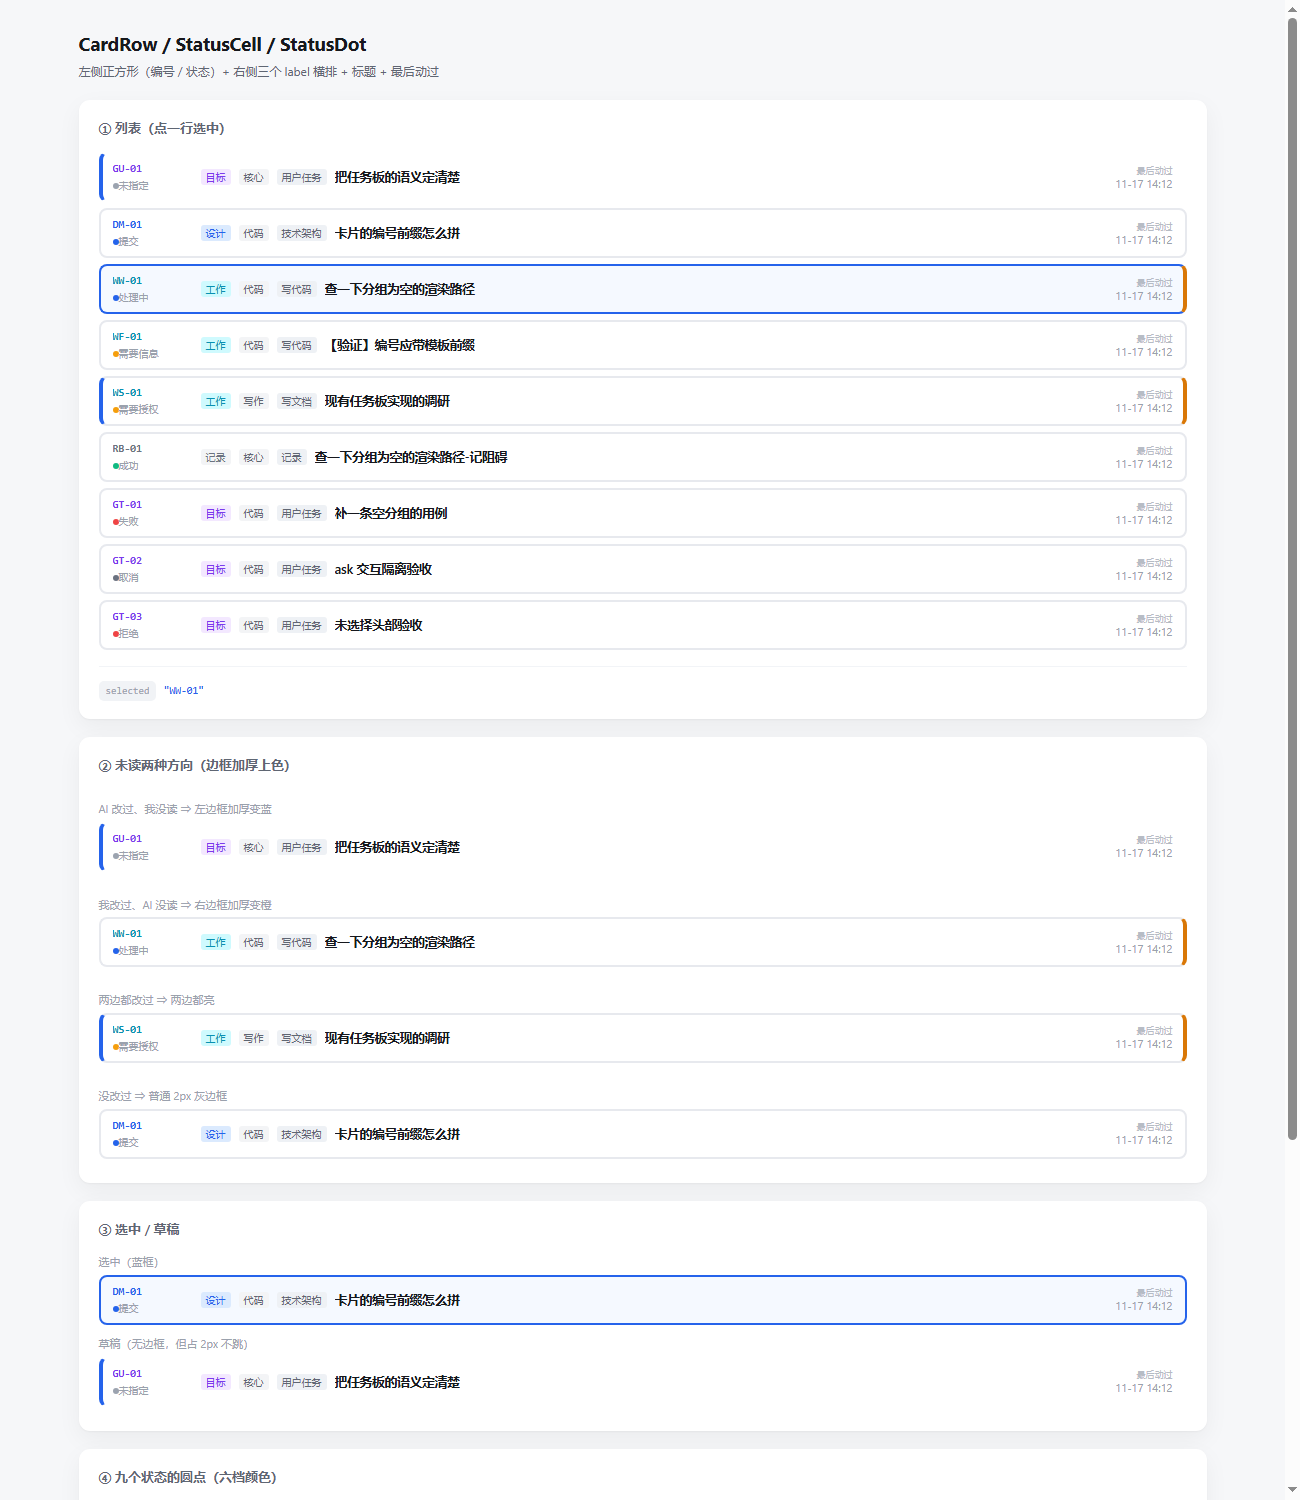
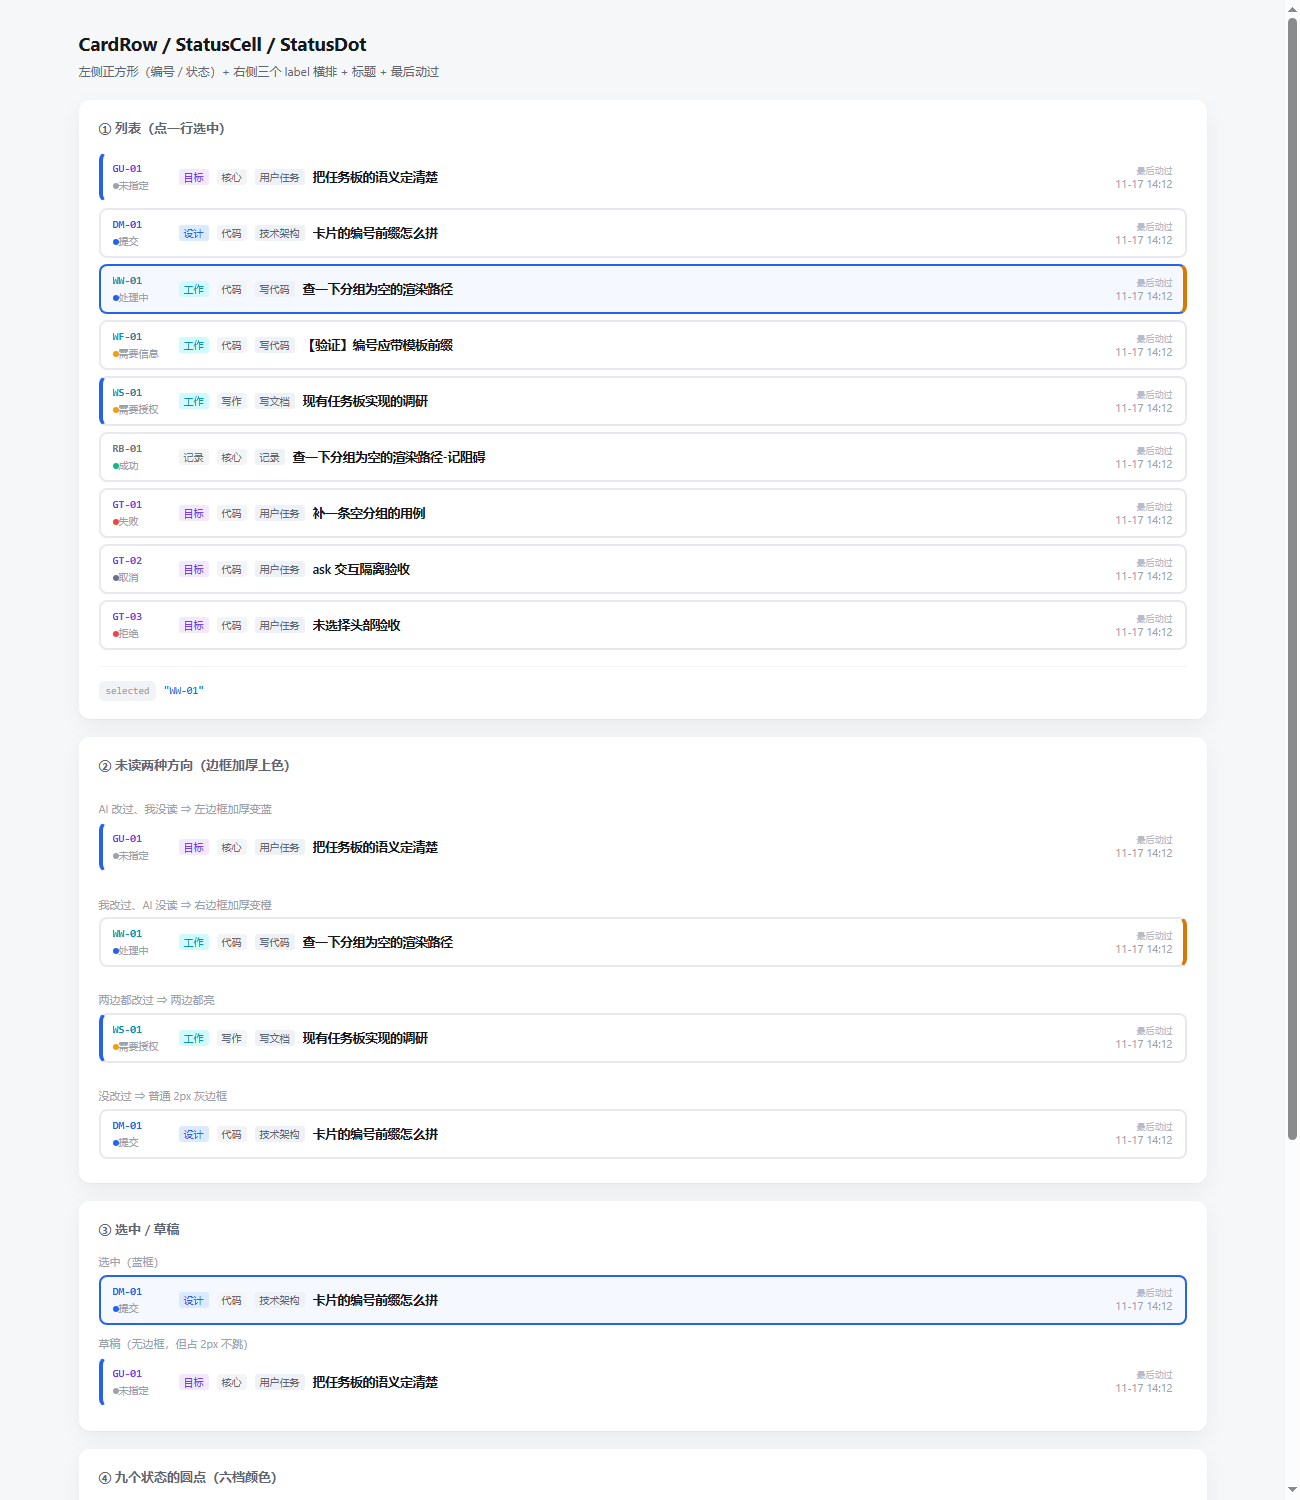
fix(CardRow): 收窄间距 12→8、正方形 76→58、未读只亮一边
用户 2026-11-17 三条反馈：

1. 「隔开那么宽干什么？至少隔了40px」
   实测：正方形 76px + gap 12px + 卡片 padding 12px。
   编号文字到第一个 label 之间是 **12px**（不是 40），但视觉上确实松。
   ⇒ 正方形收到 58px（最长状态「● 需要信息」约 50px），gap 收到 8px。

2. 「两边都改过是不可能的。这个东西是，一边改了而且另一边没读。
    他要改肯定会读啊。不点开读怎么改？」
   **用户是对的。** 改之前必须点开，点开就 markSeen 了。
   ⇒ 新增 pure/card-view.ts 的 unreadSide()：两边都真时**只亮左边**。
     组件里不再各判一次 card.unread.ai / .user。

   ⚠ 但数据层允许它是坏的：core 的 unreadAfter 只置位不清位，
     clearedUnread 由 markSeen 触发。客户端漏调 markSeen 就写会造成两边都真
     （core/test/updates.test.ts:130 就构造出了这个状态）。
     ⇒ unreadSide() 是唯一判决点，5 条单测钉住。

3. build.mjs 参数化（多成员并发需要）
   原来写死 preview/main.tsx，两个成员同时加组件会抢同一个文件。
   现在：node build.mjs <子目录名> 构建那个子目录的 main.tsx + style.css。
   ⇒ 每个组件一个子目录，互不干扰。

## 验证

- dev 单测 60 条全绿（新增 5 条 unreadSide）
- CDP 断言全过，新增：
  · 正方形 58px
  · 正方形到 label 间距 ≤ 10px（实测 8）
  · WS-01 数据两边都真，但 UI 只亮左边（左 4px、右 2px）
- 全仓 474 测试全绿

diff --git a/packages/dsh-client/dev/preview/index.html b/packages/dsh-client/dev/preview/index.html
@@ -3,7 +3,7 @@
 <head>
 <meta charset="utf-8">
 <meta name="viewport" content="width=device-width,initial-scale=1">
-<title>任务板 3 · 组件预览 · FilterBox</title>
+<title>任务板 3 · 组件预览</title>
 <style>/*
  * 组件预览页的样式。
  *
@@ -195,6 +195,10 @@ html,body{margin:0;height:100%;font-family:-apple-system,'Segoe UI','Microsoft Y
  *   额外线条会和选中框、hover 框打架。
  * ⚠ 加粗后总宽变 1px，用 `padding` 补偿回去，否则整块会抖。
  */
+/*
+ * ⚠ 两个类**不会同时存在** —— `unreadSide()` 已把「两边都真」收敛成只亮左边。
+ *   见 pure/card-view.ts 的 unreadSide 注释。
+ */
 .task-card.is-unread-ai{
   border-left-width:4px;border-left-color:var(--accent);
   padding-left:10px;   /* 12 - 2 补偿 */
@@ -204,9 +208,13 @@ html,body{margin:0;height:100%;font-family:-apple-system,'Segoe UI','Microsoft Y
   padding-right:10px;
 }
 
+/* 正方形和右侧内容的间距：12px（用户 2026-11-17 说太宽，从 12 收到 8） */
+.task-card{gap:8px}
+.task-card__status.is-compact{align-items:center}
+
 /* ── 左侧正方形：编号在上、状态在下 ── */
 .task-card__square{
-  flex:0 0 76px;display:flex;flex-direction:column;justify-content:center;gap:3px;
+  flex:0 0 58px;display:flex;flex-direction:column;justify-content:center;gap:3px;
   min-width:0;
 }
 .task-card__square-id{
@@ -242,6 +250,9 @@ html,body{margin:0;height:100%;font-family:-apple-system,'Segoe UI','Microsoft Y
 
 /* 未读的文字信号：编号加粗到 800（旧版行为，保留） */
 .task-card.is-unread-ai .card-id{font-weight:800}
+
+
+
 
 
 </style>
@@ -17282,9 +17293,43 @@ html,body{margin:0;height:100%;font-family:-apple-system,'Segoe UI','Microsoft Y
 		return String(n).padStart(2, "0");
 	}
 	/**
+	* 未读该亮哪一边。
+	*
+	* ## 用户 `2026-11-17`：两边同时为真在现实中不可能
+	*
+	* > 「然后你这个两边都改过是不可能的。这个东西是，一边改了而且另一边没读。
+	* >  他要改肯定会读啊。不点开读怎么改？」
+	*
+	* 对 —— 改之前必须点开，点开就 `markSeen` 了，所以「AI 改过我没读」和
+	* 「我改过 AI 没读」**不会同时成立**。
+	*
+	* ## 但数据层允许它是坏的
+	*
+	* core 的 `unreadAfter` 只置位不清位，`clearedUnread` 由 `markSeen` 触发。
+	* 如果**客户端没调 `markSeen` 就写**（程序化写、SSE 竞态、别处直接改库），
+	* 两个 can 同时为 `true`（`core/test/updates.test.ts:130` 就构造出了这个状态）。
+	*
+	* ⇒ **这里是唯一的判决点**：两个都为真时，只亮**左边（AI 改过）**。
+	*
+	* 为什么偏向左边：用户正在看这个界面，「我有一条没读的更新」是他能行动的信息；
+	* 「我改了 AI 还没读」是 AI 的事，不该占用视觉主位。
+	* 而且两个都亮会让人以为「选中了」。
+	*
+	* @param unread 卡的未读字段
+	* @returns `'left'` = AI 改过（左）、`'right'` = 我改过（右）、`'none'` = 两边都不亮
+	*/
+	function unreadSide(unread) {
+		if (unread.ai) return "left";
+		if (unread.user) return "right";
+		return "none";
+	}
+	/**
 	* 从 `history` 取创建时间与最后动作时间。
 	*
 	* ⚠ **空历史时两个都 `undefined`** —— 调用方自己跳过空值，这里不编默认值。
+	*
+	* ⚠ **不统计「最后动过」时排除 `recompute`**：那是机器推导（父卡随子任务变化），
+	*   不是人动过。用户看「最后动过」是想知道**谁最后一次真的碰了这张卡**。
 	*
 	* @param history 历史数组（可能是脏数据）
 	*/
@@ -17559,8 +17604,9 @@ html,body{margin:0;height:100%;font-family:-apple-system,'Segoe UI','Microsoft Y
 		const cls = ["task-card"];
 		if (props.selected) cls.push("is-selected");
 		if (isDraftStatus(card.status)) cls.push("is-draft");
-		if (card.unread.ai) cls.push("is-unread-ai");
-		if (card.unread.user) cls.push("is-unread-user");
+		const side = unreadSide(card.unread);
+		if (side === "left") cls.push("is-unread-ai");
+		if (side === "right") cls.push("is-unread-user");
 		return /* @__PURE__ */ (0, import_jsx_runtime.jsxs)("button", {
 			type: "button",
 			className: cls.join(" "),

diff --git a/packages/dsh-client/dev/pure/card-view.ts b/packages/dsh-client/dev/pure/card-view.ts
@@ -161,9 +161,47 @@ export interface CardTimes {
 }
 
 /**
+ * 未读该亮哪一边。
+ *
+ * ## 用户 `2026-11-17`：两边同时为真在现实中不可能
+ *
+ * > 「然后你这个两边都改过是不可能的。这个东西是，一边改了而且另一边没读。
+ * >  他要改肯定会读啊。不点开读怎么改？」
+ *
+ * 对 —— 改之前必须点开，点开就 `markSeen` 了，所以「AI 改过我没读」和
+ * 「我改过 AI 没读」**不会同时成立**。
+ *
+ * ## 但数据层允许它是坏的
+ *
+ * core 的 `unreadAfter` 只置位不清位，`clearedUnread` 由 `markSeen` 触发。
+ * 如果**客户端没调 `markSeen` 就写**（程序化写、SSE 竞态、别处直接改库），
+ * 两个 can 同时为 `true`（`core/test/updates.test.ts:130` 就构造出了这个状态）。
+ *
+ * ⇒ **这里是唯一的判决点**：两个都为真时，只亮**左边（AI 改过）**。
+ *
+ * 为什么偏向左边：用户正在看这个界面，「我有一条没读的更新」是他能行动的信息；
+ * 「我改了 AI 还没读」是 AI 的事，不该占用视觉主位。
+ * 而且两个都亮会让人以为「选中了」。
+ *
+ * @param unread 卡的未读字段
+ * @returns `'left'` = AI 改过（左）、`'right'` = 我改过（右）、`'none'` = 两边都不亮
+ */
+export function unreadSide(unread: {
+	readonly ai: boolean;
+	readonly user: boolean;
+}): 'left' | 'right' | 'none' {
+	if (unread.ai) return 'left';
+	if (unread.user) return 'right';
+	return 'none';
+}
+
+/**
  * 从 `history` 取创建时间与最后动作时间。
  *
  * ⚠ **空历史时两个都 `undefined`** —— 调用方自己跳过空值，这里不编默认值。
+ *
+ * ⚠ **不统计「最后动过」时排除 `recompute`**：那是机器推导（父卡随子任务变化），
+ *   不是人动过。用户看「最后动过」是想知道**谁最后一次真的碰了这张卡**。
  *
  * @param history 历史数组（可能是脏数据）
  */

diff --git a/packages/dsh-client/dev/test/card-view.test.ts b/packages/dsh-client/dev/test/card-view.test.ts
@@ -18,6 +18,7 @@ import {
 	kindTone,
 	stateLabel,
 	stateTone,
+	unreadSide,
 } from '../pure/card-view.ts';
 
 /* 常见状态全名，省得每处写长串 */
@@ -200,3 +201,44 @@ describe('cardTimes —— 从 history 取时间', () => {
 		assert.deepEqual(t, { created: undefined, last: undefined });
 	});
 });
+
+/* ══════════════════════════════════════════════════════════ */
+describe('unreadSide —— 未读亮哪一边', () => {
+	/*
+	 * 用户 2026-11-17：
+	 * > 「然后你这个两边都改过是不可能的。这个东西是，一边改了而且另一边没读。
+	 * >  他要改肯定会读啊。不点开读怎么改？」
+	 *
+	 * ⇒ 现实里两个不会同时为真。但数据层允许它是坏的（core 的 unreadAfter
+	 *   只置位不清位，客户端漏调 markSeen 就写会造成两边都真）。
+	 *   ⇒ 这里是唯一判决点。
+	 */
+
+	it('都没改 ⇒ none', () => {
+		assert.equal(unreadSide({ ai: false, user: false }), 'none');
+	});
+
+	it('AI 改过我没读 ⇒ 左边', () => {
+		assert.equal(unreadSide({ ai: true, user: false }), 'left');
+	});
+
+	it('我改过 AI 没读 ⇒ 右边', () => {
+		assert.equal(unreadSide({ ai: false, user: true }), 'right');
+	});
+
+	it('⚠ 两边都真（脏数据）⇒ 只亮左边，不两边都亮', () => {
+		/* 两边都亮会被误认为「选中」；且「我有未读」是用户能行动的信息。 */
+		assert.equal(unreadSide({ ai: true, user: true }), 'left');
+	});
+
+	it('⚠ 返回值只有三种，不会同时返回两个', () => {
+		const all = [
+			unreadSide({ ai: true, user: true }),
+			unreadSide({ ai: true, user: false }),
+			unreadSide({ ai: false, user: true }),
+			unreadSide({ ai: false, user: false }),
+		];
+		assert.equal(all.every((one) => ['left', 'right', 'none'].includes(one)), true);
+	});
+});
+

diff --git a/packages/dsh-client/dev/preview/preview.css b/packages/dsh-client/dev/preview/preview.css
@@ -189,6 +189,10 @@ html,body{margin:0;height:100%;font-family:-apple-system,'Segoe UI','Microsoft Y
  *   额外线条会和选中框、hover 框打架。
  * ⚠ 加粗后总宽变 1px，用 `padding` 补偿回去，否则整块会抖。
  */
+/*
+ * ⚠ 两个类**不会同时存在** —— `unreadSide()` 已把「两边都真」收敛成只亮左边。
+ *   见 pure/card-view.ts 的 unreadSide 注释。
+ */
 .task-card.is-unread-ai{
   border-left-width:4px;border-left-color:var(--accent);
   padding-left:10px;   /* 12 - 2 补偿 */
@@ -198,9 +202,13 @@ html,body{margin:0;height:100%;font-family:-apple-system,'Segoe UI','Microsoft Y
   padding-right:10px;
 }
 
+/* 正方形和右侧内容的间距：12px（用户 2026-11-17 说太宽，从 12 收到 8） */
+.task-card{gap:8px}
+.task-card__status.is-compact{align-items:center}
+
 /* ── 左侧正方形：编号在上、状态在下 ── */
 .task-card__square{
-  flex:0 0 76px;display:flex;flex-direction:column;justify-content:center;gap:3px;
+  flex:0 0 58px;display:flex;flex-direction:column;justify-content:center;gap:3px;
   min-width:0;
 }
 .task-card__square-id{
@@ -236,5 +244,7 @@ html,body{margin:0;height:100%;font-family:-apple-system,'Segoe UI','Microsoft Y
 
 /* 未读的文字信号：编号加粗到 800（旧版行为，保留） */
 .task-card.is-unread-ai .card-id{font-weight:800}
+
+
 
 

diff --git a/packages/dsh-client/dev/components/CardRow.tsx b/packages/dsh-client/dev/components/CardRow.tsx
@@ -42,7 +42,7 @@
 
 import type { ReactNode } from 'react';
 
-import { cardTimes, fmtDateTime, isDraftStatus, kindTone } from '../pure/card-view.ts';
+import { cardTimes, fmtDateTime, isDraftStatus, kindTone, unreadSide } from '../pure/card-view.ts';
 import type { Card } from '../../src/types.ts';
 import { StatusCell } from './StatusCell.tsx';
 
@@ -71,9 +71,18 @@ export function CardRow(props: CardRowProps): ReactNode {
 	const cls = ['task-card'];
 	if (props.selected) cls.push('is-selected');
 	if (isDraftStatus(card.status)) cls.push('is-draft');
-	/* 未读两向分别加类 —— CSS 各自负责左 / 右边框。 */
-	if (card.unread.ai) cls.push('is-unread-ai');
-	if (card.unread.user) cls.push('is-unread-user');
+	/*
+	 * 未读只亮**一边**。
+	 *
+	 * 用户 `2026-11-17`：「两边都改过是不可能的。这个东西是，一边改了而且另一边没读。
+	 * 他要改肯定会读啊。不点开读怎么改？」
+	 *
+	 * ⇒ 判决在 `unreadSide()`（已单测）—— 两边都真时只亮左边。
+	 *   组件这里不做任何判断。
+	 */
+	const side = unreadSide(card.unread);
+	if (side === 'left') cls.push('is-unread-ai');
+	if (side === 'right') cls.push('is-unread-user');
 
 	return (
 		<button
